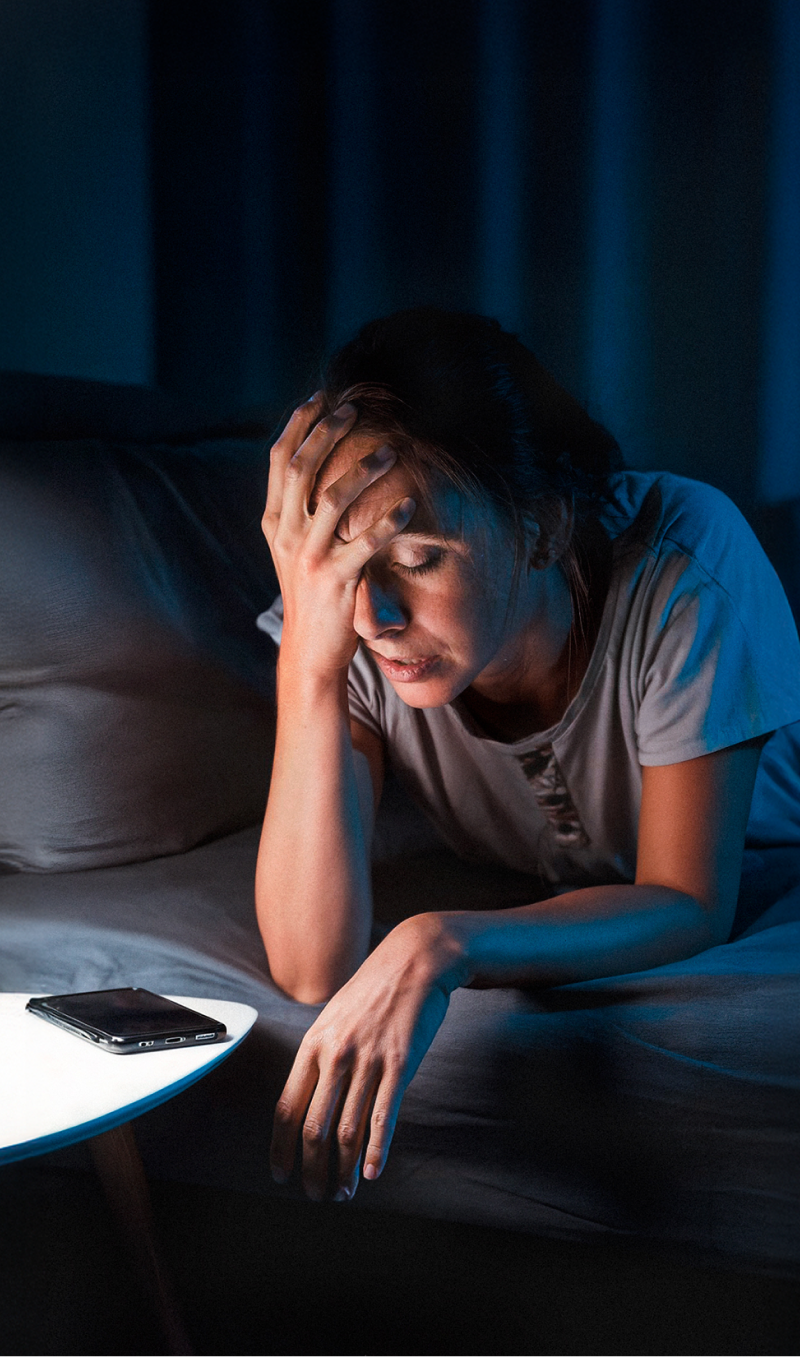
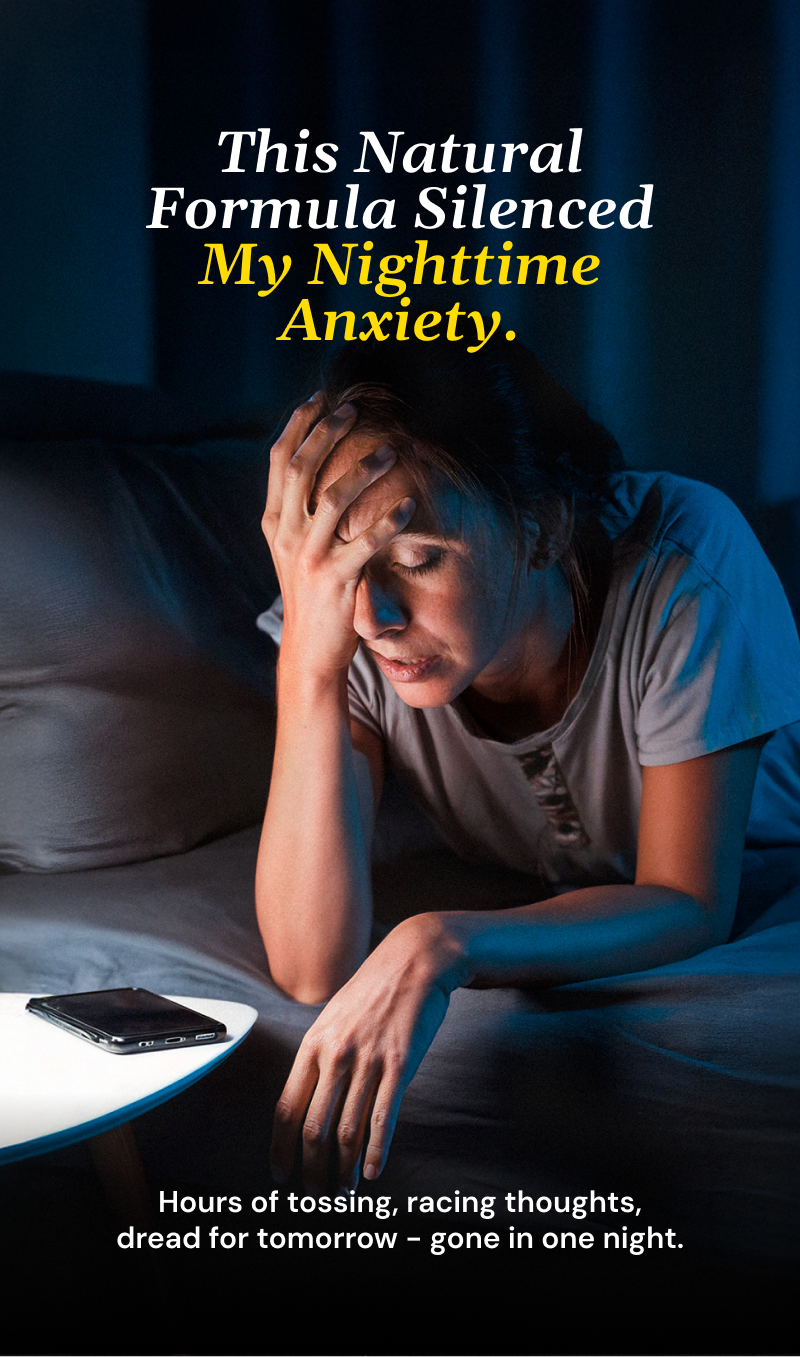
feat/update sleepbetter

Changed region(s): [[0.1875, 0.0929, 0.8125, 0.2786], [0.1562, 0.8357, 0.8438, 0.9285], [0.0, 0.8047, 0.0938, 0.8666]]

diff --git a/src/pages/sleepBetter.vue b/src/pages/sleepBetter.vue
@@ -6,9 +6,10 @@ import SuperFooter from '../components/SuperFooter.vue';
 import BeyoundC from '../components/pageC/BeyoundC.vue'
 import CtaPageC from '../components/pageC/CtaPageC.vue';
 import IngredientsC from '../components/pageC/IngredientsC.vue';
-import VslBadges from '../components/VslBadges.vue';
+// import VslBadges from '../components/VslBadges.vue';
 import TestimonialsCarousel from '../components/TestimonialsCarousel.vue';
 import { useSeo } from '../composables/useSeo';
+import ShopNowV1 from '../components/ShopNowV1.vue';
 
 useSeo({
   title: 'Get Restful Sleep Naturally with Superment Super Sleep Aid',
@@ -44,37 +45,25 @@ function onCountdownExpired() { }
             class="w-full object-cover"
           />
         </picture>
-        <!-- Texto sobreposto -->
-        <div class="absolute inset-0 z-10 flex sm:items-center">
-          <div class="px-[42px] pt-[46px] flex flex-col justify-between pb-8 sm:pb-0 max-w-screen-xl">
-            <h1 class="font-gelasio italic text-center text-white text-[30px] sm:text-[48px] leading-[0.91] drop-shadow">
-              I Blank in Meetings. <br>I Miss Games. <br>I Cry in Cabs. 
-
-              <br><span class="text-[#FFDC03]">The Real Problem? <br>No Sleep.</span>
-            </h1>
-            <p class="text-[#fff] text-center leading-[18px] text-[15px]">
-             I thought burnout was just part of the job. Turns out, my nights were running <br> me into the ground.
-            </p>
-          </div>
-        </div>
       </section>
       <section>
         <div class="w-full bg-[#FFFAF0] relative">
           <div class="px-[42px] text-[15px] font-normal text-[#370F1E] leading-[17.7px] py-8">
             <p>
-              No more 2 a.m. wake-ups. No more fog. Just deep rest that gave me back my focus, my safety, and my peace of mind.
+             That night, it hit me — I wasn’t just tired. I was half-present everywhere: at work, at home, even with myself.
             </p>
-            <p class="pt-5">For years, I thought pounding coffee and muscling through the miles was just the job. But that night on I-40, I realized tough doesn’t mean stupid.
+            <p class="pt-5">I didn’t need another late coffee or some knock-out pill. I needed a way to switch my brain off, to let my body reset.
             </p>
-            <p class="pt-5">What I found wasn’t some pill that knocks you out. It was a way to actually rest — deep, solid, no 2 a.m. wake-ups, no fog in the morning.
+            <p class="pt-5">That’s when I found <span class="font-bold">Super Natural Sleep.</span> No melatonin. No morning fog. Just a natural way to calm the spin and sink into real, restorative sleep.
             </p>
-            <p class="pt-5">First night, I slept like a log. Week later, I was pulling ten hours straight and still had gas in the tank. My wife says I sound like myself again.
+            <p class="pt-5">The first night, I actually stayed asleep. No 2 a.m. wake-ups, no scrolling emails in the dark. The next morning, I made pancakes for my son before school. He looked at me and said, “You’re happy today, Mom.” That one line hit harder than any performance review ever could.
             </p>
-            <p class="pt-5">If you’re out there white-knuckling it, thinking coffee’s enough — don’t wait for your close call.
+            <p class="pt-5">By the end of the week, I was walking into meetings sharp, clear, confident. I didn’t blank. I didn’t snap.
             </p>
-            <p class="italic pt-5 font-gelasio font-semibold">Super Natural Sleep gave me back my focus, my safety, and my peace of mind. It can do the same for you.
+            <p class="pt-5">At home, I laughed more. My son started opening up again. </p>
+            <p class="pt-5">I thought exhaustion was the price of ambition. Turns out, it was stealing the best parts of me.</p>
+            <p class="italic pt-5 font-gelasio font-semibold">Super Natural Sleep gave me back my focus at work — and my patience at home. It can do the same for you.
             </p>
-
           </div>
           <span
             class="pointer-events-none absolute left-1/2 -translate-x-1/2 -bottom-4 translate-y-[1px] z-10
@@ -87,8 +76,7 @@ function onCountdownExpired() { }
       <div class="w-full bg-[#E1DCCD] relative">
         <div class="px-[42px] pt-[38px] pb-[35px]">
           <h1 class="text-[#370F1E] text-center font-gelasio text-[25px] italic font-normal leading-[29.5px]">
-            Signs your sleep
-            may be compromised too:
+            Signs your sleep<br> may be compromised too:
           </h1>
           <ul class="grid grid-cols-2 text-[14px] leading-[15.4px] font-gelasio italic pt-[27px] gap-x-3 gap-y-[27.58px] list-none">
             <li class="bg-[#FFFAF0] relative rounded-[7px]">
@@ -139,7 +127,7 @@ function onCountdownExpired() { }
                 loading="lazy"
                 class="absolute left-1/2 -translate-x-1/2 top-0 -translate-y-1/2 z-10 pointer-events-none select-none"
               />
-              <div class="leading-[15.4px] pb-[11px] pt-[15px] px-[10px] text-[#370F1E] text-center">Fatigue that rest doesn’t fix</div>
+              <div class="leading-[15.4px] pb-[11px] pt-[15px] px-[10px] text-[#370F1E] text-center">Fatigue that <br> rest doesn’t fix</div>
             </li>
             <li class="bg-[#FFFAF0] relative rounded-[7px]">
               <img
@@ -149,7 +137,7 @@ function onCountdownExpired() { }
                 loading="lazy"
                 class="absolute left-1/2 -translate-x-1/2 top-0 -translate-y-1/2 z-10 pointer-events-none select-none"
               />
-              <div class="leading-[15.4px] pb-[11px] pt-[15px] px-[10px] text-[#370F1E] text-center">Early signs of aging</div>
+              <div class="leading-[15.4px] pb-[11px] pt-[15px] px-[10px] text-[#370F1E] text-center">Early signs <br> of aging</div>
             </li>
           </ul>
         </div>
@@ -157,15 +145,15 @@ function onCountdownExpired() { }
           class="pointer-events-none absolute left-1/2 -translate-x-1/2 -bottom-4 translate-y-[1px] z-10
                   w-0 h-0 border-l-[30px] border-l-transparent border-r-[30px] border-r-transparent
                   border-t-[28px] border-t-[#E1DCCD]">
-          </span>
+        </span>
       </div>
     </section>
     <section>
-      <div class="w-full bg-[#370F1E]">
+      <div class="w-full bg-[#370F1E] relative">
         <div class="px-[42px] pt-[43px] sm:max-w-[996px]">
           <div class="flex gap-[15px]">
             <div class="flex flex-col gap-[15px]">
-              <h1 class="text-[#FFDC03] leading-[32px] font-gelasio text-[33px]">The deeper risks you can’t see.</h1>
+              <h1 class="text-[#FFDC03] leading-[32px] font-gelasio text-[32px]">The deeper risks you can’t see.</h1>
               <p class="text-[14px] leading-[16.52px] text-[#fff]"><span class="font-bold">Surface symptoms <br> are just the beginning. </span> <br>Beneath them, chronic sleep loss quietly <br>disrupts the body’s <br> most vital systems.</p>
             </div>
             <img class="max-w-[150px] max-h-[225px]" src="../assets/image/pagec/iceberg.webp" alt="iceberg">
@@ -173,37 +161,42 @@ function onCountdownExpired() { }
           <div>
             <ul class="grid pt-[31px] grid-cols-2  gap-x-[15px] gap-y-[15px]">
               <li class="bg-[#FFFAF0] rounded-[7px] justify-center items-center">
-                <div class="bg-[#FFDC03] pt-1 pb-1 px-2 text-[#370F1E] text-[26px] leading-[1]  justify-self-center font-gelasio rounded-b-[7px]">+48%</div>
-                <p class="text-[14px] text-center px-[30px] pt-2 pb-[15px] leading-[1.1] font-gelasio italic text-[#370F1E]">higher risk of heart disease</p>
+                <div class="bg-[#FFDC03] pt-[2px] pb-[2px] px-2 text-[#370F1E] text-[26px] leading-[1]  justify-self-center font-gelasio rounded-b-[7px]">+48%</div>
+                <p class="text-[14px] text-center px-[30px] pt-[10px] pb-[11px] leading-[1.1] font-gelasio italic text-[#370F1E]">higher risk of heart disease</p>
               </li>
               <li class="bg-[#FFFAF0] rounded-[7px] justify-center items-center">
-                <div class="bg-[#FFDC03] pt-1 pb-1 px-2 text-[#370F1E] text-[26px] leading-[1]  justify-self-center font-gelasio rounded-b-[7px]">+33%</div>
-                <p class="text-[14px] text-center px-[30px] pt-2 pb-[15px] leading-[1.1] font-gelasio italic text-[#370F1E]">higher risk of memory loss</p>
+                <div class="bg-[#FFDC03] pt-[2px] pb-[2px] px-2 text-[#370F1E] text-[26px] leading-[1]  justify-self-center font-gelasio rounded-b-[7px]">+33%</div>
+                <p class="text-[14px] text-center px-[30px] pt-[10px] pb-[11px] leading-[1.1] font-gelasio italic text-[#370F1E]">higher risk of memory loss</p>
               </li>
               <li class="bg-[#FFFAF0] rounded-[7px] justify-center items-center">
-                <div class="bg-[#FFDC03] pt-1 pb-1 px-2 text-[#370F1E] text-[26px] leading-[1]  justify-self-center font-gelasio rounded-b-[7px]">+46%</div>
-                <p class="text-[14px] text-center px-[30px] pt-2 pb-[15px] leading-[1.1] font-gelasio italic text-[#370F1E]">higher risk of anxiety and depression</p>
+                <div class="bg-[#FFDC03] pt-[2px] pb-[2px] px-2 text-[#370F1E] text-[26px] leading-[1]  justify-self-center font-gelasio rounded-b-[7px]">+46%</div>
+                <p class="text-[14px] text-center px-[7px] pt-[10px] pb-[11px] leading-[1.1] font-gelasio italic text-[#370F1E]">higher risk of anxiety and depression</p>
               </li>
               <li class="bg-[#FFFAF0] rounded-[7px] justify-center items-center">
-                <div class="bg-[#FFDC03] pt-1 pb-1 px-2 text-[#370F1E] text-[26px] leading-[1]  justify-self-center font-gelasio rounded-b-[7px]">4X</div>
-                <p class="text-[14px] text-center px-[30px] pt-2 pb-[15px] leading-[1.1] font-gelasio italic text-[#370F1E]">more likely to get sick</p>
+                <div class="bg-[#FFDC03] pt-[2px] pb-[2px] px-6 text-[#370F1E] text-[26px] leading-[1]  justify-self-center font-gelasio rounded-b-[7px]">4X</div>
+                <p class="text-[14px] text-center px-[30px] pt-[10px] pb-[11px] leading-[1.1] font-gelasio italic text-[#370F1E]">more likely to get sick</p>
               </li>
               <li class="bg-[#FFFAF0] rounded-[7px] justify-center items-center">
-                <div class="bg-[#FFDC03] pt-1 pb-1 px-2 text-[#370F1E] text-[26px] leading-[1]  justify-self-center font-gelasio rounded-b-[7px]">3X</div>
-                <p class="text-[14px] text-center px-[30px] pt-2 pb-[15px] leading-[1.1] font-gelasio italic text-[#370F1E]">higher risk of type 2 diabetes</p>
+                <div class="bg-[#FFDC03] pt-[2px] pb-[2px] px-6 text-[#370F1E] text-[26px] leading-[1]  justify-self-center font-gelasio rounded-b-[7px]">3X</div>
+                <p class="text-[14px] text-center px-[15px] pt-[10px] pb-[11px] leading-[1.1] font-gelasio italic text-[#370F1E]">higher risk of type 2 diabetes</p>
               </li>
               <li class="bg-[#FFFAF0] rounded-[7px] justify-center items-center">
-                <div class="bg-[#FFDC03] pt-1 pb-1 px-2 text-[#370F1E] text-[26px] leading-[1]  justify-self-center font-gelasio rounded-b-[7px]">700+</div>
-                <p class="text-[14px] text-center px-[30px] pt-2 pb-[15px] leading-[1.1] font-gelasio italic text-[#370F1E]">genes disrupted after just one week of poor sleep</p>
+                <div class="bg-[#FFDC03] pt-[2px] pb-[2px] px-2 text-[#370F1E] text-[26px] leading-[1]  justify-self-center font-gelasio rounded-b-[7px]">700+</div>
+                <p class="text-[14px] text-center px-[5px] pt-[4px] pb-[1px] leading-[1.1] font-gelasio italic text-[#370F1E]">genes disrupted after just one week of <br> poor sleep</p>
               </li>
               <li class="bg-[#FFFAF0] rounded-[7px] justify-center items-center col-span-2">
-                <div class="bg-[#FFDC03] pt-1 pb-1 px-2 text-[#370F1E] text-[26px] leading-[1]  justify-self-center font-gelasio rounded-b-[7px]">24 hours awake=</div>
-                <p class="text-[14px] text-center px-[30px] pt-2 pb-[15px] leading-[1.1] font-gelasio italic text-[#370F1E]">similar of being drunk</p>
+                <div class="bg-[#FFDC03] pt-[2px] pb-[2px] px-2 text-[#370F1E] text-[26px] leading-[1]  justify-self-center font-gelasio rounded-b-[7px]">24 hours awake=</div>
+                <p class="text-[14px] text-center px-[15px] pt-[10px] pb-[12px] leading-[1.1] font-gelasio italic text-[#370F1E]">similar of being drunk</p>
               </li>
             </ul>
-            <p class="text-center pt-[17px] pb-[27px] text-[#fff]">This isn’t just data — <span class="font-semibold">  it’s your body sending early warnings.</span></p>
+            <p class="text-center pt-[15px] pb-[22px] text-[#fff]">This isn’t just data — <span class="font-semibold">  it’s your body sending early warnings.</span></p>
           </div>
         </div>
+        <span
+          class="pointer-events-none absolute left-1/2 -translate-x-1/2 -bottom-4 translate-y-[1px] z-10
+                  w-0 h-0 border-l-[30px] border-l-transparent border-r-[30px] border-r-transparent
+                  border-t-[28px] border-t-[#370F1E]">
+        </span>
       </div>
     </section>
       <CtaPageC />
@@ -212,10 +205,10 @@ function onCountdownExpired() { }
       <div class="bg-[#FFFAF0] w-full items-center">
         <div class="w-[349px] mx-auto pt-[31px] font-gelasio font-medium  italic text-center justify-self-center">
           <p class="title text-[#370F1E] font-semibold text-[25px] leading-none">Everyday, more people</p>
-          <p class="text-[#6EC8F0] font-semibold leading-[1.1] text-[25px] pb-[24px]"> finally sleep again.</p>
+          <p class="text-[#6EC8F0] font-semibold leading-[1.1] text-[25px] pb-[25px]"> finally sleep again.</p>
           <div class="bg-gradient-to-b from-[#E2DCCE] to-[#CAC0AA] w-[318px] justify-self-center relative text-right flex font-gelasio px-3 pb-[17px] pt-[10px] text-[#370F1E] rounded-[20px]">
              <img class="absolute left-3 top-1/2 -translate-y-1/2 w-[80px] h-auto" src="../assets/image/seloRated.webp" alt="rated">
-            <p class="description w-full text-right leading-[1.2] text-[17px]"><strong>98%</strong> would recommend <br> it for
+            <p class="description w-full text-right pt-[9px] leading-[1] text-[17px]"><strong>98%</strong> would recommend <br> it for
               deeper,better
               sleep.</p>
           </div>
@@ -245,8 +238,66 @@ function onCountdownExpired() { }
         </div>
       </div>
       <div class="">
-        <VslBadges @expired="onCountdownExpired" />
+        <ShopNowV1 @expired="onCountdownExpired" />
       </div>
+      <section>
+      <div class="w-full bg-[#E1DCCD] relative">
+        <div class="px-[42px] pt-[32px] pb-[35px]">
+          <h1 class="text-[#370F1E] text-center font-gelasio text-[25px] italic font-bold leading-[29.5px]">
+            Most sleep aids fail.
+            <p class="font-normal text-[16px] leading-[1] pb-[18px]">They don’t restore — they override.</p>
+          </h1>
+          <p  class="text-[#370F1E] leading-[1.2] text-[15px]">
+            Melatonin, sleep teas, OTC pilss, harsh chemicals and sedatives may help you fall asleep faster. But rather than supporting <br> your natural sleep cycles, they often suppress them — <span class="font-bold"> leading to shallow, disconnected rest.</span>
+          </p>
+          <p class="font-bold text-[#370F1E] pt-[16px]">
+            Common side effects of conventional sleep aids:
+          </p>
+          <ul class="grid grid-cols-2 text-[14px] leading-[15.4px] font-gelasio italic pt-[27px] gap-x-3 gap-y-[27.58px] list-none">
+            <li class="bg-[#370F1E] relative rounded-[7px]">
+              <img
+                src="../assets/image/pagec/emoji/face_with_steam_from_nose.webp"
+                alt="" aria-hidden="true"
+                width="22" height="22"
+                loading="lazy"
+                class="absolute left-1/2 -translate-x-1/2 top-0 -translate-y-1/2 z-10 pointer-events-none select-none"
+              />
+              <div class="leading-[15.4px] pb-[11px] pt-[15px] px-[10px] text-[#fff] text-center">Increased stress or anxiety</div>
+            </li>
+            <li class="bg-[#370F1E] relative rounded-[7px]">
+              <img
+                src="../assets/image/pagec/emoji/face_with_thermometer.webp"
+                alt="" aria-hidden="true"
+                width="22" height="22"
+                loading="lazy"
+                class="absolute left-1/2 -translate-x-1/2 top-0 -translate-y-1/2 z-10 pointer-events-none select-none"
+              />
+              <div class="leading-[15.4px] pb-[11px] pt-[15px] px-[10px] text-[#fff] text-center">Getting sick more often</div>
+            </li>
+            <li class="bg-[#370F1E] relative rounded-[7px]">
+              <img
+                src="../assets/image/pagec/emoji/weary_face.webp"
+                alt="" aria-hidden="true"
+                width="22" height="22"
+                loading="lazy"
+                class="absolute left-1/2 -translate-x-1/2 top-0 -translate-y-1/2 z-10 pointer-events-none select-none"
+              />
+              <div class="leading-[15.4px] pb-[11px] pt-[15px] px-[10px] text-[#fff] text-center">Fatigue that <br> rest doesn’t fix</div>
+            </li>
+            <li class="bg-[#370F1E] relative rounded-[7px]">
+              <img
+                src="../assets/image/pagec/emoji/older_person001.webp"
+                alt="" aria-hidden="true"
+                width="22" height="22"
+                loading="lazy"
+                class="absolute left-1/2 -translate-x-1/2 top-0 -translate-y-1/2 z-10 pointer-events-none select-none"
+              />
+              <div class="leading-[15.4px] pb-[11px] pt-[15px] px-[10px] text-[#fff] text-center">Early signs <br> of aging</div>
+            </li>
+          </ul>
+        </div>
+      </div>
+    </section>
       <div class="bg-[#FFFAF0] w-full py-[54px] items-center justify-start">
         <div class="px-0 flex flex-col items-center justify-start">
           <div class="w-full max-w-[349px] md:max-w-[1260px]">

diff --git a/src/components/ShopNowV1.vue b/src/components/ShopNowV1.vue
@@ -14,12 +14,15 @@ const emit = defineEmits<{ (e: 'expired'): void }>()
 
 <template>
     <div
-        class="w-full bg-[#6EC8F0] flex flex-col items-center justify-start 
-        py-10 pb-[54px] lg:pt-[78px] lg:pb-[130px]">
-         
+        class="w-full bg-[#6EC8F0] flex flex-col items-center justify-start pt-[33px] pb-[54px] lg:pt-[78px] lg:pb-[130px]">
+            <div class="w-[350px] text-[#370F1E] text-center text-[20px] leading-[1.2] font-gelasio italic">
+                <h1> You don’t have to live <br> exhausted anymore.</h1>
+                <p class="pt-2 font-bold">Break the cycle now. <br> Claim real rest and your<br>energy back.</p>
+            </div>    
+
         <!-- HEADER COM CONTADOR -->
         <div
-            class="w-[350px] lg:w-[700px] flex flex-row items-center justify-between pt-4 pb-12 lg:pb-[146px] lg:pt-[46px] lg:mr-40">
+            class="w-[350px] lg:w-[700px] flex flex-row items-center justify-between pt-12 pb-12 lg:pb-[146px] lg:pt-[46px] lg:mr-40">
            
             <div>
                 <span class="text-[#370F1E] font-crossfit text-[61px] lg:text-[148px] font-bold leading-[0.87]">SHOP
@@ -52,8 +55,8 @@ const emit = defineEmits<{ (e: 'expired'): void }>()
             <!-- FRASCO GRANDE -->
             <div
                 class="smartplayer-scroll-event w-[350px] h-[360px] bg-[#90DAF4] rounded-[30px] pt-0 pb-3 border-radius border-0 flex flex-col items-center lg:w-[600px] lg:h-[600px] lg:pb-4">
-                <img src="@/assets/image/vsl/NN1.png" alt="bagde VSL" class="w-96 h-78 block lg:hidden">
-                <img src="@/assets/image/NN1.png" alt="bagde VSL" class="hidden lg:block h-auto w-[110%] max-w-[900px]">
+                <img src="@/assets/image/pagec/bottle_one.webp" alt="bagde VSL" class="w-96 h-78 block lg:hidden">
+                <img src="@/assets/image/pagec/bottle_one.webp" alt="bagde VSL" class="hidden lg:block h-auto w-[110%] max-w-[900px]">
 
                 <ShopButton textColorClass="text-[#370F1E]" iconColorClass="text-[#370F1E]" :show-icon="false"
                     productId="prod_SbKYsQrxStW8wB"
@@ -100,7 +103,7 @@ const emit = defineEmits<{ (e: 'expired'): void }>()
                 <div class="flex flex-row items-center justify-between gap-3 lg:flex-row items-center justify-start">
                     <div
                         class="w-[170px] h-[233px] lg:w-[300px] lg:h-[415px] bg-[#90DAF4] rounded-[30px] flex flex-col items-center justify-start lg:pb-4">
-                        <img src="@/assets/image/vsl/NN2.png" alt="bagde VSL"
+                        <img src="@/assets/image/pagec/bottles_three.webp" alt="bagde VSL"
                             class="w-[200px] h-[180px] -mt-3 ml-4 lg:w-[400px] lg:h-[400px]">
                         <ShopButton textColorClass=" text-[#370F1E]" :show-icon="false" productId="prod_SbKa8ag01A2TGX"
                             class="h-[66px] w-[145px] shadow-md bg-[linear-gradient(132deg,#FFDC03_2.9%,#C9B11C_94.39%)] !rounded-[20px] justify-between lg:w-[253px] lg:h-[165px] lg:text-[30px] -mt-[14px]">
@@ -146,7 +149,7 @@ const emit = defineEmits<{ (e: 'expired'): void }>()
                     </div>
                     <div
                         class="w-[170px] h-[233px] lg:w-[300px] lg:h-[415px] bg-[#90DAF4] rounded-[30px] flex flex-col items-center justify-start lg:pb-4">
-                        <img src="@/assets/image/vsl/NN3.png" alt="bagde VSL"
+                        <img src="@/assets/image/pagec/bottles_six.webp" alt="bagde VSL"
                             class="w-[200px] h-[180px] -mt-3  lg:w-[400px] lg:h-[400px]">
                         <ShopButton textColorClass=" text-[#370F1E]" :show-icon="false" productId="prod_SbKaRuJpDVBEzx"
                             class="h-[66px] w-[145px] shadow-md !rounded-[20px] bg-[linear-gradient(132deg,#FFDC03_2.9%,#C9B11C_94.39%)] justify-between lg:w-[253px] lg:h-[165px] lg:text-[30px] -mt-[14px]">

diff --git a/src/components/pageC/IngredientsC.vue b/src/components/pageC/IngredientsC.vue
@@ -1,5 +1,5 @@
 <template>
-    <div class="w-full flex flex-col items-center justify-start bg-[#FFFAF0]">
+    <div class="w-full relative flex flex-col items-center justify-start bg-[#FFFAF0]">
         <div class="w-[310px] flex flex-col items-center justify-start py-[42px] gap-y-3">
             <span class="font-gelasio text-[25px] leading-[1.1] text-[#370F1E] text-center">What’s inside and <br><span
                     class="font-bold">why it
@@ -32,6 +32,11 @@
             </div>
 
         </div>
+        <span
+            class="pointer-events-none absolute left-1/2 -translate-x-1/2 -bottom-4 translate-y-[1px] z-10
+                  w-0 h-0 border-l-[30px] border-l-transparent border-r-[30px] border-r-transparent
+                  border-t-[28px] border-t-[#FFFAF0]">
+          </span>
     </div>
 </template>
 

diff --git a/src/components/TestimonialsCarousel.vue b/src/components/TestimonialsCarousel.vue
@@ -56,7 +56,7 @@ watch(currentIndex, () => {
 </script>
 
 <template>
-  <div class="relative w-full pt-[40px] pb-10 flex justify-center items-center lg:pt-10">
+  <div class="relative w-full pt-[37px] pb-10 flex justify-center items-center lg:pt-10">
     <div class="w-full max-w-[800px] lg:max-w-[1250px] px-4 relative h-[550px] lg:h-[600px]">
 
       <!-- seta esquerda -->
